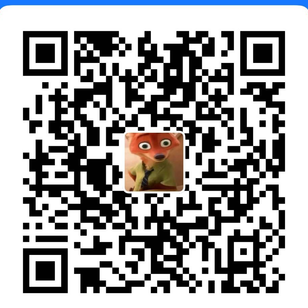
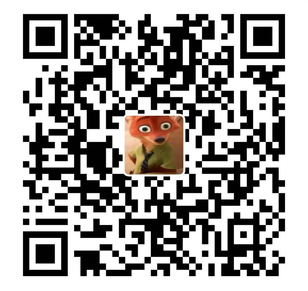
Add files via upload

diff --git a/index.html b/index.html
@@ -131,6 +131,10 @@
   .pay-head{display:flex;align-items:center;justify-content:space-between;gap:16px;flex-wrap:wrap;margin-top:26px}
   .pay-now{display:flex;align-items:center;gap:10px;font-size:13px;color:var(--text-2);background:var(--card);border:1px solid var(--line);border-radius:999px;padding:8px 16px}
   .pay-now b{font-size:18px;font-weight:800;color:var(--purple-2);font-family:var(--mono)}
+  .pay-meta{display:flex;align-items:center;gap:7px;margin:10px 0 0;font-size:12px;color:var(--dim);line-height:1.6}
+  .pay-meta svg{flex:none;opacity:.7}
+  .pay-meta.warn{color:#e8b86b;margin-top:6px}
+  .pay-meta.warn svg{opacity:.9}
   .pay-grid{display:grid;grid-template-columns:repeat(2,1fr);gap:16px;margin-top:18px}
   .pm{background:var(--card);border:1px solid var(--line);border-radius:16px;padding:20px;display:flex;flex-direction:column}
   .pm-head{display:flex;align-items:center;gap:10px;margin-bottom:14px}
@@ -141,7 +145,7 @@
   .pm-head small{display:block;font-size:11.5px;color:var(--muted);font-weight:400}
   .qr{position:relative;width:100%;aspect-ratio:1;max-width:180px;margin:0 auto 12px;border-radius:12px;background:#0d1016;border:1px dashed #2c3240;display:grid;place-items:center;cursor:zoom-in;overflow:hidden;transition:border-color .18s,background .18s}
   .qr:hover{border-color:var(--purple);background:#10131a}
-  .qr img{width:100%;height:100%;object-fit:cover;border-radius:11px;background:#fff}
+  .qr img{width:100%;height:100%;object-fit:contain;border-radius:11px;background:#fff}
   .qr .ph{display:none;text-align:center;padding:14px;color:var(--dim);font-size:11.5px;line-height:1.7}
   .qr .ph svg{margin:0 auto 8px;display:block;opacity:.45}
   .qr .ph b{display:inline-block;word-break:break-all;color:var(--muted);font-weight:600}
@@ -349,6 +353,15 @@
           <span style="font-size:12.5px;color:var(--muted)">选好金额后，用下面的任一种方式付款</span>
         </div>
 
+        <p class="pay-meta">
+          <svg width="13" height="13" viewBox="0 0 24 24" fill="none" aria-hidden="true"><circle cx="12" cy="12" r="9" stroke="currentColor" stroke-width="1.6"/><path d="M12 8v4.5l3 1.8" stroke="currentColor" stroke-width="1.6" stroke-linecap="round" stroke-linejoin="round"/></svg>
+          数据为人工核对，每日更新一次
+        </p>
+        <p class="pay-meta warn">
+          <svg width="13" height="13" viewBox="0 0 24 24" fill="none" aria-hidden="true"><path d="M12 3l7.5 3.2v5.4c0 4.3-3.1 8.2-7.5 9.4-4.4-1.2-7.5-5.1-7.5-9.4V6.2L12 3z" stroke="currentColor" stroke-width="1.6" stroke-linejoin="round"/></svg>
+          超过 500 元的大额赞助，请走支付宝渠道
+        </p>
+
         <div class="pay-grid">
           <div class="pm">
             <div class="pm-head">
@@ -376,7 +389,7 @@
               <span class="pm-ico ali">
                 <svg width="18" height="18" viewBox="0 0 24 24" fill="none" aria-hidden="true"><rect x="3" y="3" width="18" height="18" rx="4" stroke="currentColor" stroke-width="1.6"/><path d="M7 15.5c2.5 1.2 5 1.2 7.2 0M12 3v7.5M8.5 7.5H16" stroke="currentColor" stroke-width="1.6" stroke-linecap="round"/></svg>
               </span>
-              <h4>支付宝<small>扫码或搜索账号转账</small></h4>
+              <h4>支付宝<small>扫码后输入金额</small></h4>
             </div>
             <div class="qr" data-qr="alipay" tabindex="0" role="button" aria-label="查看支付宝收款码">
               <img src="assets/alipay-qr.png" alt="支付宝收款二维码" />
@@ -433,7 +446,7 @@
         <div class="reveal">
           <p class="lead">拳皇 2012 安卓版的联机改造，目标是把它变成可以在线上对战、有排位、能持续更新的版本。</p>
           <p>单机再好，也不如和老对手隔着屏幕打一局。这个项目做的事情，就是把对局搬到线上，并且在能玩的基础上继续往里加内容。</p>
-          <p>众筹的钱只有两个去处：服务器和带宽，以及开发时间。达到一档就做一档，没到的档位不会提前画饼。</p>
+          <p>众筹的钱只有两个去处：服务器和带宽，以及软件开发成本。达到一档就做一档，没到的档位不会提前画饼。</p>
           <p>现在还在第一档之前，所以页面上所有档位都是未解锁状态——这是真实进度，没有美化。</p>
         </div>
         <div class="facts reveal">
@@ -458,7 +471,7 @@
       <div class="faq reveal">
         <details open>
           <summary>支持的钱会用在什么地方？</summary>
-          <p>全部用于服务器与带宽费用、以及开发投入。没有中间渠道，也没有实物成本，所以每一笔都直接变成项目进度。</p>
+          <p>全部用于服务器与带宽、以及软件开发投入。没有中间渠道，每一笔都会直接变成项目进度。</p>
         </details>
         <details>
           <summary>达到档位之后多久能看到东西？</summary>
@@ -470,7 +483,7 @@
         </details>
         <details>
           <summary>支持后可以退款吗？</summary>
-          <p>在对应档位开始开发前可以联系发起人退款；一旦该档位已经投入开发并发布，就不再支持退款。付款前请确认。</p>
+          <p>在对应档位开始开发前可以联系发起人退款；一旦该档位已经投入开发，就不再支持退款。付款前请确认。</p>
         </details>
         <details>
           <summary>这个项目和 SNK 有关系吗？</summary>
@@ -518,8 +531,8 @@
       index.html?raised=12500&backers=8
    ========================================================================= */
 const CONFIG = {
-  raised: 0,
-  backers: 0,
+  raised: 711,
+  backers: 16,
   updatedAt: "",
   contact: "QQ 群 1132095525",
   milestones: [
